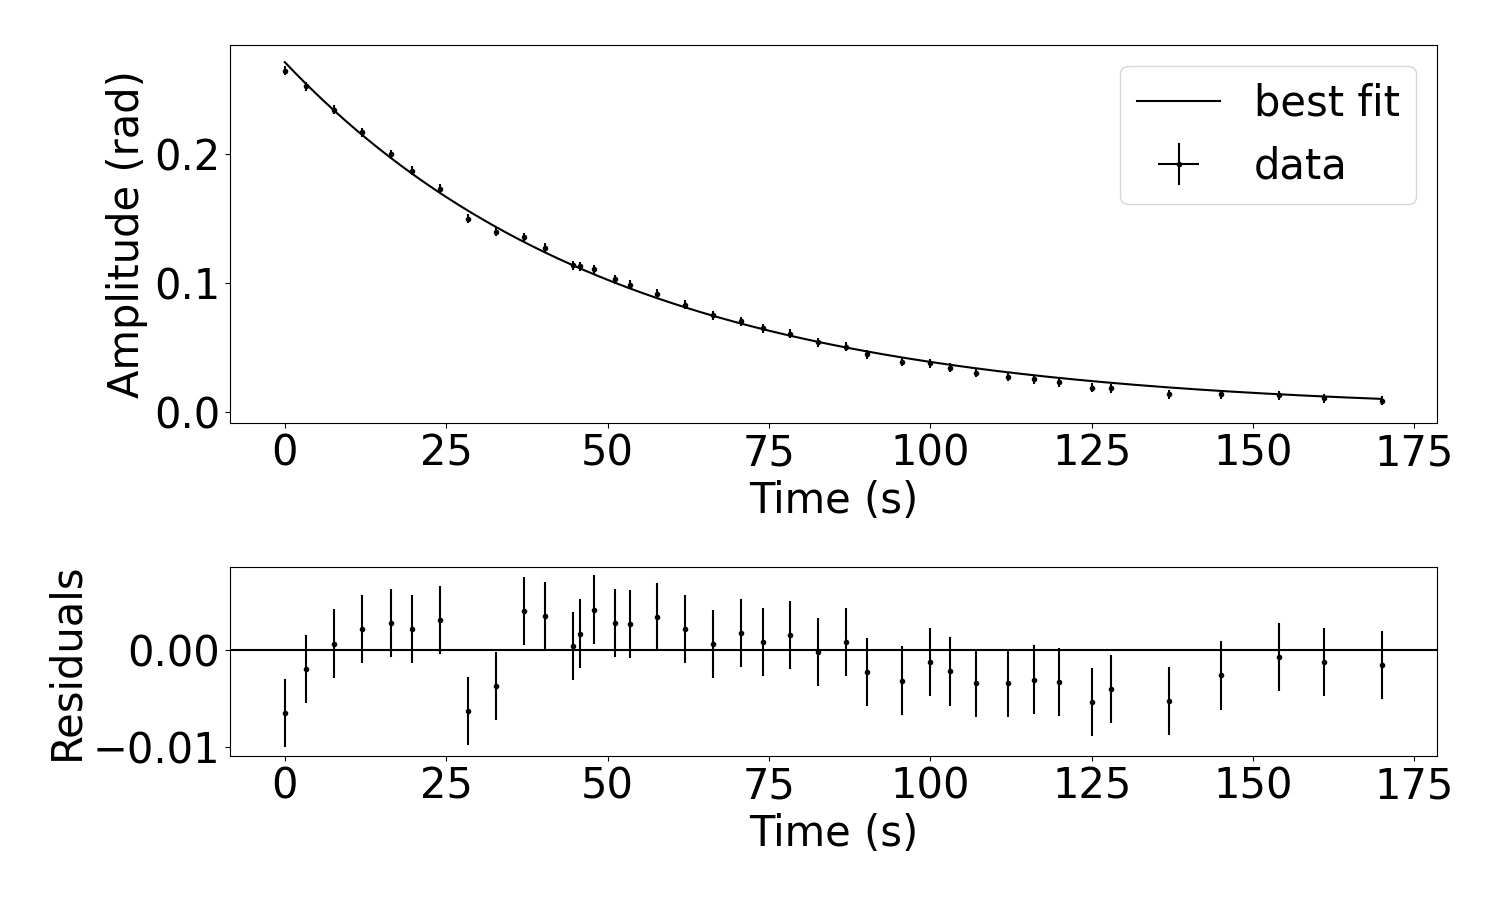
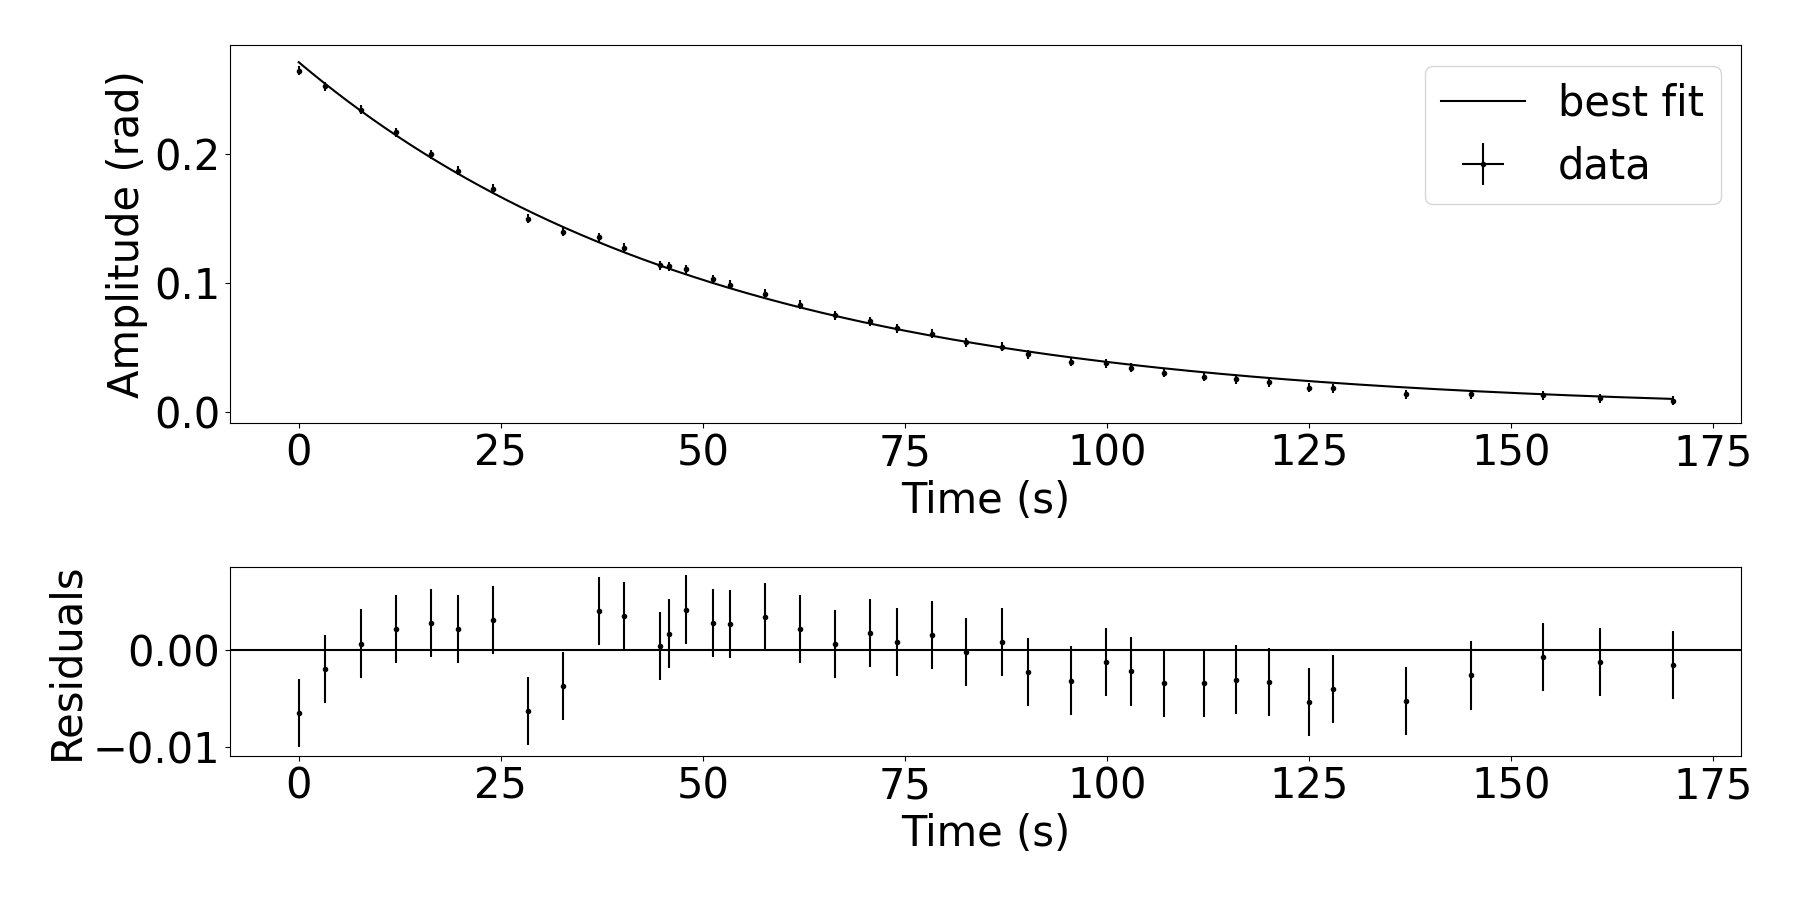
IM GONNA SUBMIT (lmao forgot appendix stating ai use)

diff --git a/report.tex b/report.tex
@@ -56,14 +56,14 @@ The following equations may be referenced throughout the report:
     Q&=nK \label{q counted}
 \end{align}
 
-The proposed model suggested that $\theta$ could be described by the function of time Equation~\ref{amplitude vs. time} (Wilson, 2025a) where Equation \ref{max amplitude vs. time} describes the maximum amplitude per oscillation. The model also predicted that $T$ did not depend on $\theta_0$ at all, that the best fit 3-term power series Equation \ref{power series} (Wilson, 2025a) would yield $T=T_0$ and $B,~ C=0$. 
+The damped harmonic oscillator model suggested that $\theta$ could be described by the function of time Equation~\ref{amplitude vs. time} (Wilson, 2025a) where Equation \ref{max amplitude vs. time} describes the maximum amplitude per oscillation. The model also predicted that $T$ did not depend on $\theta_0$ at all, that the best fit 3-term power series Equation \ref{power series} (Wilson, 2025a) would yield $B,~ C=0$ and $T=T_0$. 
 Equation \ref{q calculated} (Wilson, 2025a) quantifies $Q$ in terms of other obtainable variables. By Equation~\ref{q counted}, $Q$ can also be found by counting $K$, the number of oscillations for $\theta$ to decay by a factor of $\e^{-\pi/n}$ for any $n$.
 
 When analyzing uncertainties, two values $a \pm u(a),~b \pm u(b)$ (where $a<b$) are in fact considered experimentally indistinguishable if their error bars overlap ($a + u(a) \geq b - u(b))$. In the special case where $u(a)=u(b)$, $a$ and $b$ agree within error if $\abs{b-a}\leq 2u(a).$
 
 \pagebreak
 \section{Methods and Procedures}
-The string was tied around a screw, which was inserted into the mass (tennis ball). The polypropylene string had negligible strain caused by the weight of the mass. Two stacks of books stabilized two boards which jutted off the table and clamped the string, fixing the centre of rotation. A tripod supported the camera (a phone) from a distance, capturing slow-motion footage.
+The string was tied around a screw, which was inserted into the mass (a tennis ball). The polypropylene string had negligible strain caused by the weight of the mass. Two stacks of books stabilized two boards which jutted off the table and clamped the string, fixing the centre of rotation. A tripod supported the camera (a phone) from a distance, capturing slow-motion footage.
 \subsection{Measuring Period vs. Initial Amplitude}
 The period was measured using frame-by-frame analysis of the footage in OSP Tracker, with 3 oscillations per trial to reduce type B uncertainty (after confirming that multiple oscillations did not significantly impact $T$, i.e. $Q\gg1$). A protractor taped to the end of the boards measured initial amplitudes ($\pm \pi/2$). When dropping the mass, it was ensured from another angle that the pendulum would swing on a plane perpendicular to the protractor. The string was clamped close to the protractor to prevent parallax in readings (see Figure~\ref{fig:setup1}).
 
@@ -72,21 +72,21 @@ The period was measured using frame-by-frame analysis of the footage in OSP Trac
     \begin{minipage}[t]{0.30\textwidth}
         \centering
         \includegraphics[height=0.2\textheight]{input-files/setup1.jpg}
-        \caption{Setup for Period vs. Initial Amplitude Experiment}
+        \caption{Setup with protractor for Period vs. Initial Amplitude Experiment}
         \label{fig:setup1}
     \end{minipage}
     \hfill
     \begin{minipage}[t]{0.30\textwidth}
         \centering
         \includegraphics[height=0.2\textheight]{input-files/setup2.jpg}
-        \caption{Setup for Amplitude vs. Time (Q Factor Experiment)}
+        \caption{Setup with two strings for Amplitude vs. Time (Q Factor Experiment)}
         \label{fig:setup2}
     \end{minipage}
     \hfill
     \begin{minipage}[t]{0.30\textwidth}
         \centering
         \includegraphics[height=0.2\textheight]{input-files/tracker.png}
-        \caption{Manually Tracking $\theta$ with OSP Tracker}
+        \caption{Manually Tracking $\theta$ with OSP Tracker's protractor}
         \label{fig:tracker}
     \end{minipage}
 \end{figure}
@@ -109,7 +109,7 @@ $Q=nK$ (Equation~\ref{q counted}), so $u(Q)=nu(K)$. Selecting $n$ can be difficu
         Not all $T$ error bars hit the best fit curve, which is expected.}
     \label{fig:period vs amplitude}
 \end{figure}
-
+\vspace{-0.5cm}
 The type B uncertainty in initial amplitude $u(\theta_0)=\SI{0.5}{\degree}=\SI{0.009}{rad}$ comes from the precision of the protractor's markings and the thickness of the string (non-negligible for a small protractor). The error in period $u(T)=\max(u_A(T), u_B(T))$ considers both uncertainties, type A (standard error of the mean of repeated trials $\frac{\sigma_T}{\sqrt{N}})$ and type B (footage limitation $1/\SI{120}{FPS}/\SI{3}{oscillations}=\SI{0.003}{s}$).
 
 The data in Figure \ref{fig:period vs amplitude} fits the power series with values
@@ -137,16 +137,16 @@ Therefore, the small angle approximation is valid for $\abs{\theta_0}\leq 0.25 \
 
 \begin{figure}[H]
     \centering
-    \includegraphics[height=0.25\textheight]{output-files/amplitude vs. time.png}
+    \includegraphics[height=0.28\textheight]{output-files/amplitude vs. time.png}
     \caption{
         Graph of the decaying peak amplitudes vs. time fitted to Equation~\ref{max amplitude vs. time}, the exponential
-        $\theta_{max}(t) = \theta_0 \e ^ {t/\tau}$. $\abs{\frac{\Delta\theta_{max}}{\Delta t}}$ per oscillation decreases, which complicates identifying $K$ when many $\theta_{max}$ agree with $\theta_{final}$ within error. 
+        $\theta_{max}(t) = \theta_0 \e ^ {t/\tau}$. $\abs{\Delta\theta_{max}}$ per oscillation decreases, which complicates identifying $K$ when many $\theta_{max}$ agree with $\theta_{final}$ within error. 
         $t$ error bars are too small to be visible.
-        Most, but not all $\theta_{max}$ error bars hit the best hit curve, meaning the amplitude can be accurately modelled with exponential decay.
+        Most, but not all $\theta_{max}$ error bars hit the best fit curve, meaning the amplitude can be accurately modelled with exponential decay.
     }
     \label{fig:amplitude vs. time}
 \end{figure}
-% \vspace{-0.5cm}
+\vspace{-0.5cm}
 The type B uncertainties are $u(\theta_{max})= \SI{0.2}{\degree} = \SI{0.003}{\radian}$ (smaller than before, since OSP Tracker's protractor radius can be enlarged so that the string thickness spans less ticks) and $u(t)= \SI{0.008}{s}$ ($1/\SI{120}{FPS})$
 
 The exponential fit values and period for Figure \ref{fig:amplitude vs. time} are 
@@ -166,8 +166,13 @@ $Q_2$ experimentally agrees fully with $Q_{fit}$ ($\,\abs{Q_{fit}-Q_2} \leq u(Q_
 \section{Conclusion}
 By analyzing experimental uncertainty, it is concluded that the period $T$ can be approximated as the small-angle period $T_0=1.528 \pm \SI{0.002}{s}$ for $\abs{\theta_0}\leq 0.25\pm0.03$ but grows quadratically for $\abs{\theta_0} > 0.25 \pm 0.03$. Note that $\abs{\theta_0}$ is used as that the pendulum was confirmed to be symmetric ($B=0$). The pendulum's $\theta_{max}$ per oscillation can be accurately modelled with exponential decay $\theta_{max}(t)=\theta_0\e ^ {\tau/t}$. $Q_{fit}=149\pm2$ calculated from $\tau$ and $T$ agrees with the $Q_2=150\pm10$ and $Q_3=165\pm9$ obtained by counting $K$ for $n=2$, $n=3$. 
 
-For future experiments, the two-string setup which restricts non-planar motion should always be used. Measuring $T$ in other experiments will be quite error-tolerant since slight differences in $\theta_0$ negligibly change it and because $Q$ is sufficiently large for $T$ to change negligibly after a few oscillations. 
+For future experiments, the two-string setup which restricts non-planar motion should always be used. Measuring $T$ in other experiments will be quite error-tolerant since slight differences in $\theta_0$ negligibly change it and because $Q$ is sufficiently large for $T$ to change negligibly after a few oscillations.
 
+\appendix
+\section{Use of AI for this report}
+Generative AI (ChatGPT) was only queried for basic questions about matplotlib, for help fixing \LaTeX{} compilation errors, and for general conventions in lab report formatting. No content was conceived, formulated, articulated, or revised by ChatGPT.
+
+\pagebreak
 \section{References}
     \hangindent=2em
     \noindent Brown, Douglas. \emph{Tracker Video Analysis and Modeling Tool},  

diff --git a/yippee.py b/yippee.py
@@ -63,7 +63,7 @@ def plot_fit(my_func, xdata, ydata, xerror=None, yerror=None, init_guess=None, f
              output_filename = "graph.png"
              ):    
     plt.rcParams.update({'font.size': font_size})
-    plt.rcParams['figure.figsize'] = 15, 9
+    plt.rcParams['figure.figsize'] = 18, 9
     # Change the fontsize of the graphs to make it easier to read.
     # Also change the picture size, useful for the save-to-file option.
                
@@ -94,7 +94,7 @@ def plot_fit(my_func, xdata, ydata, xerror=None, yerror=None, init_guess=None, f
     # Plot the best fit curve on top of the data points as a line.
     # NOTE: you may want to change the value of label to something better!!
 
-    ax1.legend(loc='upper right')
+    ax1.legend(loc='upper right' if output_filename=="amplitude vs. time" else 'lower right')
     # Prints a box using what's in the "label" strings in the previous two lines.
     # loc specifies the location
 
